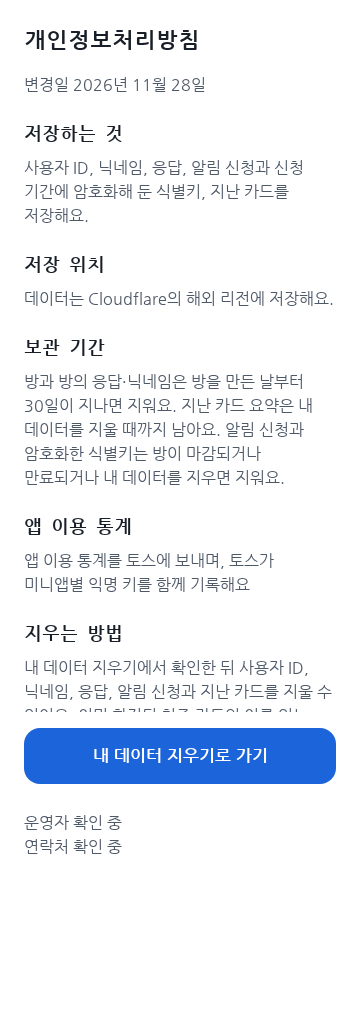
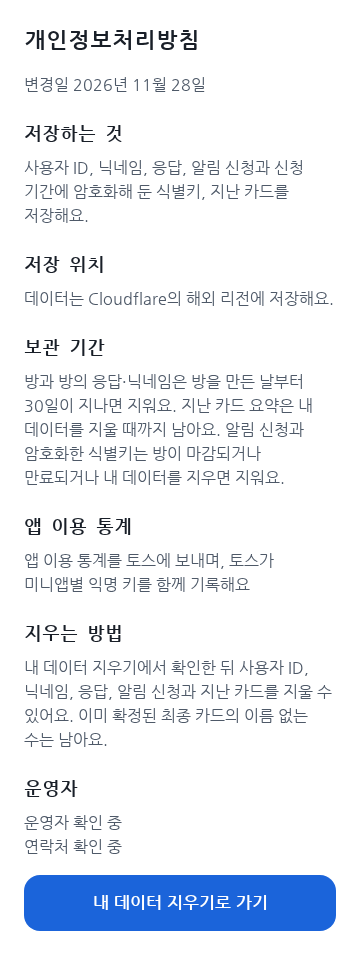
TASK-049: keep policy text clear above the action

diff --git a/apps/web/src/Legal.tsx b/apps/web/src/Legal.tsx
@@ -20,6 +20,6 @@ export function Privacy() {
     <section><h2>앱 이용 통계</h2><p>앱 이용 통계를 토스에 보내며, 토스가 미니앱별 익명 키를 함께 기록해요</p></section>
     <section><h2>지우는 방법</h2><p>내 데이터 지우기에서 확인한 뒤 사용자 ID, 닉네임, 응답, 알림 신청과 지난 카드를 지울 수 있어요. 이미 확정된 최종 카드의 이름 없는 수는 남아요.</p></section>
     <section><h2>운영자</h2><p>{operator}</p><p>{contact}</p></section>
-    <div className="create-action"><Button display="block" onClick={() => navigate('/me/delete')}>내 데이터 지우기로 가기</Button></div>
+    <Button display="block" onClick={() => navigate('/me/delete')}>내 데이터 지우기로 가기</Button>
   </main>;
 }
